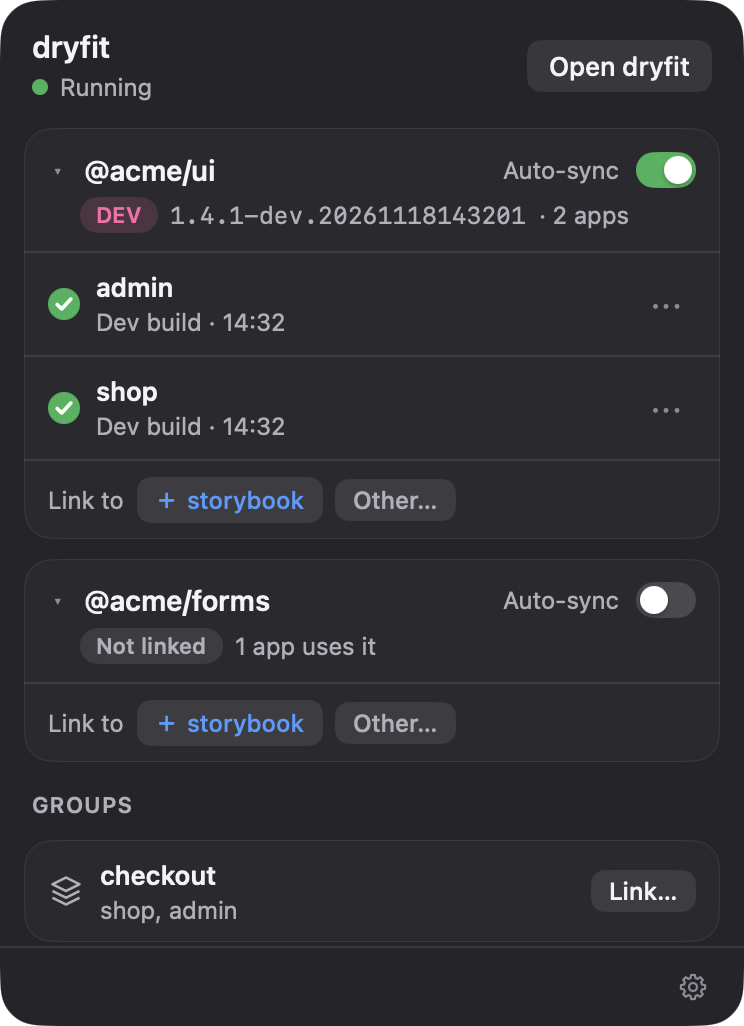
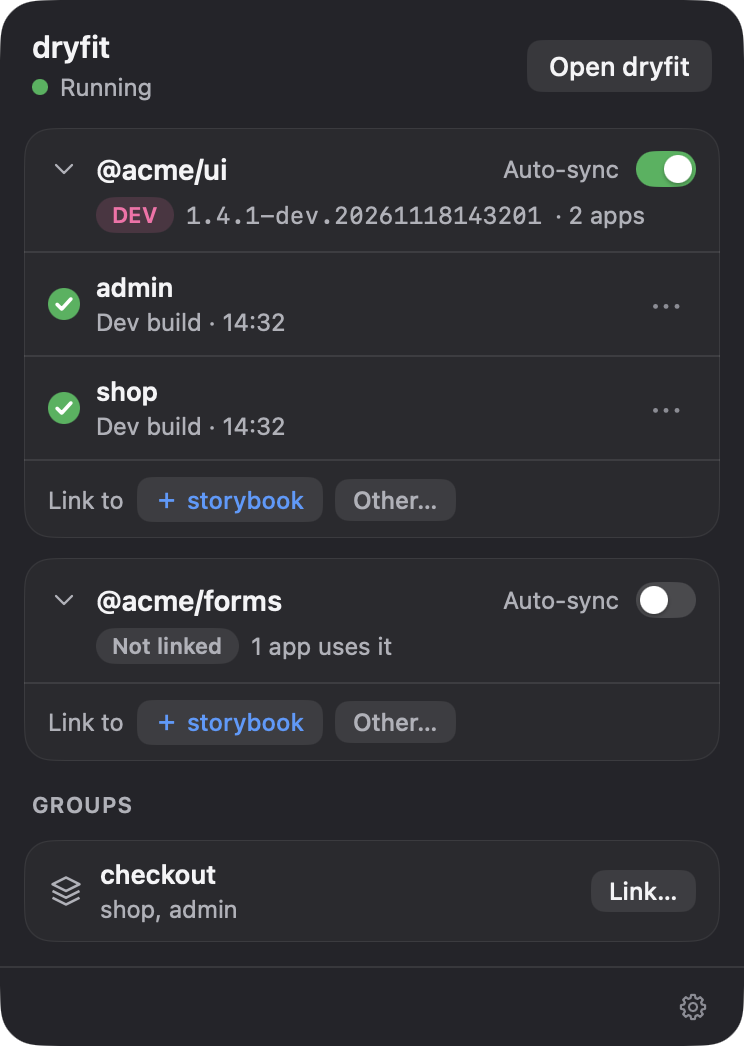
fix(menubar): a larger chevron to fold a library card

diff --git a/apps/menubar/Sources/DryfitMenu/UI/Icons.swift b/apps/menubar/Sources/DryfitMenu/UI/Icons.swift
@@ -134,7 +134,7 @@ nonisolated struct SVGShape: Shape {
 /// The mockup's line icons, at the size and stroke weight it draws them.
 struct Icon: View {
   enum Kind {
-    case library, app, group, search, gear, folder
+    case library, app, group, search, gear, folder, chevron
   }
 
   let kind: Kind
@@ -160,6 +160,8 @@ struct Icon: View {
           ["M10.08 4.85 L10.47 2.32 L13.53 2.32 L13.92 4.85 L15.70 5.59 L17.76 4.07 L19.93 6.24 L18.41 8.30 L19.15 10.08 L21.68 10.47 L21.68 13.53 L19.15 13.92 L18.41 15.70 L19.93 17.76 L17.76 19.93 L15.70 18.41 L13.92 19.15 L13.53 21.68 L10.47 21.68 L10.08 19.15 L8.30 18.41 L6.24 19.93 L4.07 17.76 L5.59 15.70 L4.85 13.92 L2.32 13.53 L2.32 10.47 L4.85 10.08 L5.59 8.30 L4.07 6.24 L6.24 4.07 L8.30 5.59Z"], 1.7, cap: .round)
         Circle().stroke(color, style: StrokeStyle(lineWidth: 1.7 * size / 24))
           .frame(width: 6 * size / 24, height: 6 * size / 24).position(x: 12 * size / 24, y: 12 * size / 24)
+      case .chevron:
+        stroke(["M9 6l6 6-6 6"], 1.7, cap: .round)
       case .folder:
         stroke(
           ["M3 6.5A1.5 1.5 0 014.5 5H9l2 2.5h8.5A1.5 1.5 0 0121 9v8.5a1.5 1.5 0 01-1.5 1.5h-15A1.5 1.5 0 013 17.5z"], 1.8, cap: .butt)

diff --git a/apps/menubar/Sources/DryfitMenu/UI/Widget.swift b/apps/menubar/Sources/DryfitMenu/UI/Widget.swift
@@ -468,8 +468,9 @@ private struct LibraryCard: View {
       Button {
         withAnimation(.snappy) { isFolded.toggle() }
       } label: {
-        Text(showsFolded ? "▸" : "▾").font(.system(size: 10)).foregroundStyle(Theme.faint)
-          .frame(width: 10, height: 19.6).contentShape(.rect)
+        Icon(kind: .chevron, size: 16, color: Theme.muted)
+          .rotationEffect(.degrees(showsFolded ? 0 : 90))
+          .frame(width: 16, height: 19.6).contentShape(.rect)
       }
       .buttonStyle(.plain)
       .disabled(squeezed)
@@ -516,7 +517,7 @@ private struct LibraryCard: View {
     .font(Theme.small)
     .foregroundStyle(Theme.muted)
     .lineLimit(1)
-    .padding(.leading, 28)
+    .padding(.leading, 36)
     .padding(.trailing, 12)
     .padding(.bottom, 9)
   }
